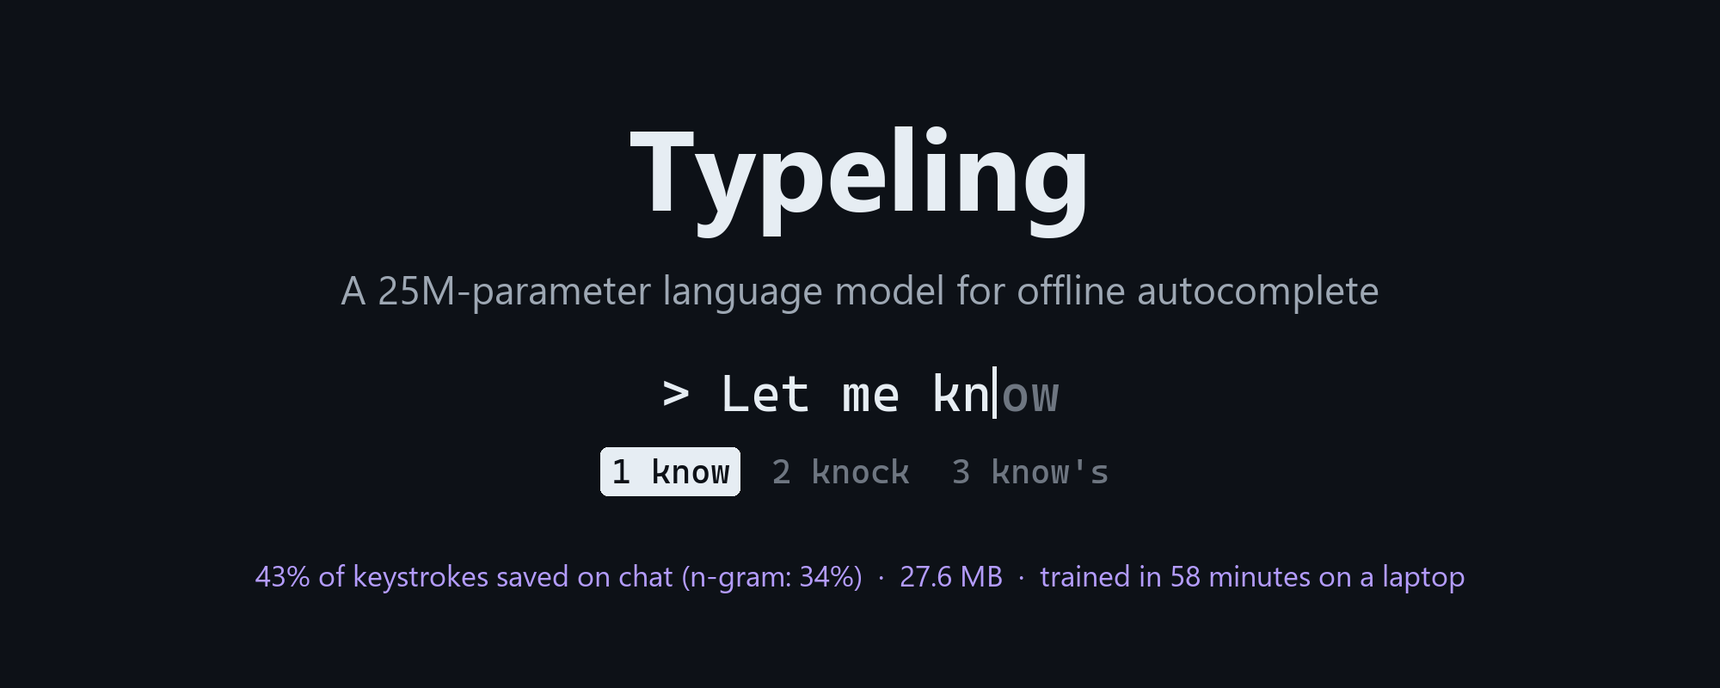
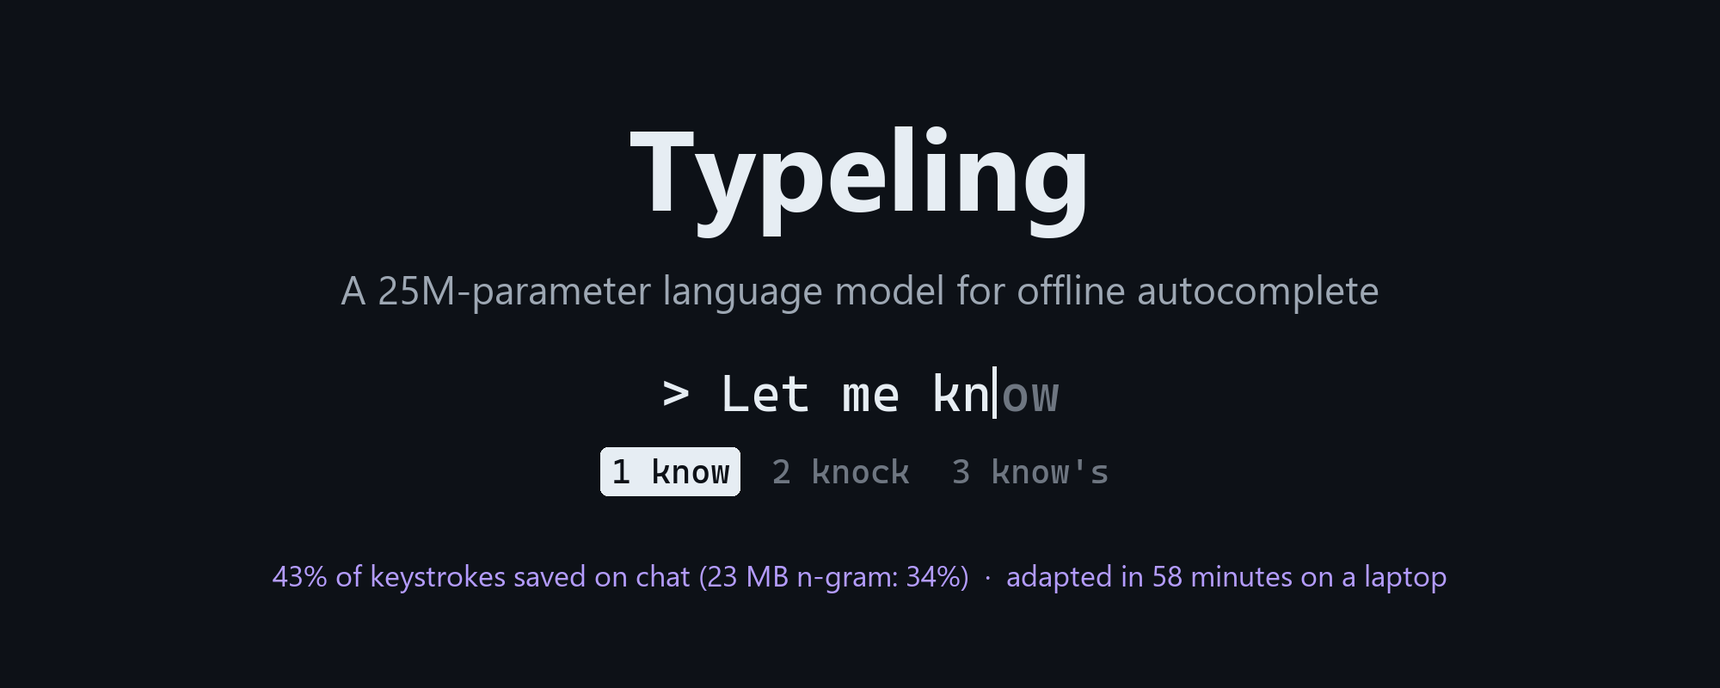
Correct the blog post and its figures
Post: fix the license statement, the n-gram fusion and tokenization
examples, the WildChat gap (23%), the cold start and the sample code;
label the sample sizes and the ghost-text numbers from the old scoring;
credit the base model; separate the 43.1% result from the GGUF file;
soften headings the evidence does not support; add per-source chat
results and the missing limitations.

Figures: compare the base model with itself in trailing-space.png, add
writing to gain.png, use tokenizations that really occur in decoder.png,
drop the 27.6 MB claim from the cover and show the demo's real command.

Changed region(s): [[0.155, 0.8125, 0.837, 0.875]]

diff --git a/docs/blog/make_images.py b/docs/blog/make_images.py
@@ -26,10 +26,11 @@ KSR3 = {"n-gram, 5 MB": [48.8, 38.9, 40.6], "n-gram, 23 MB": [50.6, 40.4, 41.5],
 COLORS = [NGRAM_SMALL, NGRAM, ACCENT]
 # Dev split, 2,000 words per source, early decoder (sections 12 and 13)
 STAGES = ["n-gram\n(23 MB)", "Base model,\nzero-shot", "+20M tokens\n(5.6 min)", "+150M tokens\n(58 min)"]
-GAIN = {"Chat": [31.9, 33.5, 40.3, 41.2], "Casual (IRC)": [24.8, 22.8, 27.7, 29.6]}
-# "Let me know " (section 12: Supra2-Medium-Base raw next token; technical report appendix B: Typeling-25M decoder)
+GAIN = {"Chat": [31.9, 33.5, 40.3, 41.2], "Casual (IRC)": [24.8, 22.8, 27.7, 29.6],
+        "Writing (FineWeb)": [25.5, 38.6, 37.5, 37.2]}
+# "Let me know " (section 12: Supra2-Medium-Base, raw next token and through the decoder)
 RAW = [('"!"', 0.37), ("invalid byte", 0.19), ('"!!"', 0.08)]
-DECODED = [("if", 0.73), ("how", 0.12), ("what", 0.06)]
+DECODED = [("if", 0.48), ("what", 0.11), ("how", 0.07)]
 
 
 def setup_matplotlib():
@@ -75,15 +76,16 @@ def results():
 
 
 def gain():
-    fig, ax = plt.subplots(figsize=(9, 4.6))
-    bars(ax, STAGES, GAIN, [ACCENT, "#B49CFF"])
-    ax.set_ylim(0, 56)
+    fig, ax = plt.subplots(figsize=(10, 5))
+    bars(ax, STAGES, GAIN, [ACCENT, "#B49CFF", NGRAM])
+    ax.set_ylim(0, 62)
     ax.set_ylabel("Keystrokes saved, ghost text (%)")
     ax.set_title("Where the gain over the n-gram model comes from", loc="left")
-    ax.legend(frameon=False, loc="upper left", fontsize=11)
-    ax.annotate("", xy=(3 - 0.2, 47.5), xytext=(1 - 0.2, 47.5),
+    ax.legend(frameon=False, loc="upper left", ncol=3, fontsize=11)
+    chat = -0.8 / 3   # offset of the chat bar in each group
+    ax.annotate("", xy=(3 + chat, 47.5), xytext=(1 + chat, 47.5),
                 arrowprops={"arrowstyle": "->", "color": ACCENT, "lw": 1.6})
-    ax.text(2 - 0.2, 48.6, "+7.7 points on chat from continued pretraining", ha="center", va="bottom",
+    ax.text(2 + chat, 48.6, "+7.7 points on chat from continued pretraining", ha="center", va="bottom",
             color=ACCENT, fontsize=11, fontweight="bold")
     fig.text(0.01, -0.06, "Development split, 2,000 words per source, through the same early decoder "
              "(no typo repair or n-gram fusion).", color=MUTED, fontsize=10.5)
@@ -93,8 +95,8 @@ def gain():
 
 def trailing_space():
     fig, axes = plt.subplots(1, 2, figsize=(12, 3.4), gridspec_kw={"wspace": 0.5})
-    panels = ((RAW, NGRAM, "Raw model, next token after “Let me know ”"),
-              (DECODED, ACCENT, "Typeling decoder, next word"))
+    panels = ((RAW, NGRAM, "Raw next token after “Let me know ”"),
+              (DECODED, ACCENT, "Same model, word decoder: next word"))
     for ax, (items, color, title) in zip(axes, panels):
         labels, values = [k for k, _ in items][::-1], [v for _, v in items][::-1]
         ax.barh(labels, values, color=color, height=0.6)
@@ -105,9 +107,9 @@ def trailing_space():
         ax.spines["bottom"].set_visible(False)
         ax.tick_params(axis="y", length=0, labelsize=13, labelcolor=INK)
         ax.set_title(title, loc="left")
-    fig.text(0.01, -0.08, "Left: Supra2-Medium-Base before any training; byte-level BPE attaches the space to the next "
-             "word, so text ending in a space looks unusual.\nRight: Typeling-25M through the word decoder, which "
-             "cuts the space off and constrains the next token to start with it.", color=MUTED, fontsize=10.5)
+    fig.text(0.01, -0.08, "Both: Supra2-Medium-Base before any training. Left: byte-level BPE attaches the space to the "
+             "next word, so text ending in a space looks unusual.\nRight: the word decoder cuts the space off and "
+             "constrains the next token to start with it.", color=MUTED, fontsize=10.5)
     fig.savefig(IMAGES / "trailing-space.png")
     plt.close(fig)
 
@@ -150,8 +152,8 @@ def cover():
             d.rounded_rectangle([x - 12, 520, x + w + 12, 576], radius=8, fill=DARK_TEXT)
         d.text((x, 548), t, font=bar, fill=DARK_BG if i == 0 else DARK_MUTED, anchor="lm")
         x += w + 48
-    d.text((W / 2, 668), "43% of keystrokes saved on chat (n-gram: 34%)  ·  27.6 MB  ·  trained in 58 minutes on a "
-           "laptop", font=font("sans", 34), fill="#B49CFF", anchor="mm")
+    d.text((W / 2, 668), "43% of keystrokes saved on chat (23 MB n-gram: 34%)  ·  adapted in 58 minutes on a laptop",
+           font=font("sans", 34), fill="#B49CFF", anchor="mm")
     im.save(IMAGES / "cover.png")
 
 
@@ -202,7 +204,8 @@ def decoder():
     y = 300
     d.text((80, y), "1  Prefix phase: only tokens that agree with \" kn\"", font=head, fill=INK, anchor="lm")
     x = 120
-    for t, ok in (('" k"', True), ('" kn"', True), ('" know"', True), ('" ka"', False), ('"!"', False)):
+    for t, ok in (('" k"', True), ('" kn"', True), ('" know"', True), ('" knock"', True), ('" ka"', False),
+                  ('"!"', False)):
         x = chip(d, x, y + 80, t, tok, "#F1EDFF" if ok else "#FFF1F0", ACCENT if ok else "#CF222E",
                  strike=not ok) + 20
     d.text((x + 10, y + 80), "allowed / rejected", font=body, fill=MUTED, anchor="lm")
@@ -210,7 +213,7 @@ def decoder():
     y = 500
     d.text((80, y), "2  Word phase: add letter tokens until the model ends the word", font=head, fill=INK,
            anchor="lm")
-    for row, (pieces, word) in enumerate(((['" know"'], "know"), (['" know"', '"ing"'], "knowing"),
+    for row, (pieces, word) in enumerate(((['" know"'], "know"), (['" knock"', '"ing"'], "knocking"),
                                           (['" know"', "\"'s\""], "know's"))):
         yy = y + 80 + row * 78
         x = 120

diff --git a/docs/blog/make_demo.py b/docs/blog/make_demo.py
@@ -11,8 +11,9 @@
 # torch = { index = "pytorch-cu128" }
 # ///
 """
-Renders the terminal demo (typeling --lm with a bar of 3 candidates) as an animated GIF and stills for the blog post.
-Every frame shows what typeling.demo.LineEditor displays after that key, from the real suggestions of Typeling-25M.
+Renders the terminal demo (typeling --lm --candidates 3) as an animated GIF and stills for the blog post. Every frame
+shows the line and candidates typeling.demo.LineEditor displays after that key, from the real suggestions of
+Typeling-25M; the window, the header and the labels are drawn here.
 
     uv run docs/blog/make_demo.py                                  # data/release/Typeling-25M if present, else the Hub
     uv run docs/blog/make_demo.py --model ScarletKc/Typeling-25M
@@ -63,8 +64,8 @@ def frame(text, ghost, cands, tab=False):
     d.rectangle([0, 0, W, 44], fill=DARK_PANEL)
     for i, c in enumerate(("#FF5F56", "#FFBD2E", "#27C93F")):
         d.ellipse([20 + i * 26, 15, 34 + i * 26, 29], fill=c)
-    d.text((W / 2, 22), "typeling --lm", font=SANS_SMALL, fill=DARK_MUTED, anchor="mm")
-    d.text((PAD, 74), "Typeling-25M  ·  Tab accept  ·  ↑/↓ choose  ·  runs offline", font=SANS_SMALL, fill=DARK_MUTED)
+    d.text((W / 2, 22), "typeling --lm --candidates 3", font=SANS_SMALL, fill=DARK_MUTED, anchor="mm")
+    d.text((PAD, 74), "Typeling-25M  ·  Tab accept  ·  ↑/↓ choose  ·  runs locally", font=SANS_SMALL, fill=DARK_MUTED)
     y = 150
     x = PAD
     d.text((x, y), "> ", font=MONO, fill=DARK_MUTED, anchor="ls")

diff --git a/docs/blog/post.md b/docs/blog/post.md
@@ -1,17 +1,17 @@
-# I Trained a 25M-Parameter Keyboard Model in an Hour on a Laptop
+# I Adapted a 25M-Parameter Language Model to Typing in an Hour on a Laptop
 
 ![Cover](images/cover.png)
 
-Phone keyboards are good at finishing your words and guessing the next one. If you want the same thing offline on a desktop or inside your own tool, there is not much to grab. The models inside Gboard or SwiftKey are closed. Open language models are hundreds of millions of parameters or more, trained to answer questions rather than finish the word under your cursor, and they predict subword tokens instead of words.
+Phone keyboards are good at finishing your words and guessing the next one. If you want the same thing offline on a desktop or inside your own tool, there is not much to grab. The models inside Gboard or SwiftKey are closed. Open language models are a poor fit out of the box: most are hundreds of millions of parameters or more and trained for chat and benchmarks, the small ones are pretrained on web text rather than on how people type, and they predict subword tokens instead of words.
 
 So I built Typeling: an open, offline English typing predictor. It has two parts under the same Python API:
 
 - A pure-Python n-gram kernel with a bundled 5 MB model and zero dependencies.
-- Typeling-25M, a 25.4M-parameter causal language model adapted for typing in 58 minutes on one laptop GPU, plus a word-level decoder that turns its token predictions into completions, next-word predictions and typo fixes.
+- Typeling-25M, a 25.4M-parameter causal language model, plus a word-level decoder that turns its token predictions into completions, next-word predictions and typo fixes. The model starts from SupraLabs' Supra2-Medium-Base (https://huggingface.co/SupraLabs/Supra2-Medium-Base), pretrained on 20B tokens of educational web text, which I adapted to typing with 58 minutes of continued pretraining on one laptop GPU.
 
 ![Terminal demo: Typeling-25M predicting the next word, completing a partial word, and fixing a typo from the candidate bar](images/demo.gif)
 
-On held-out chat text, Typeling-25M saves 43.1% of keystrokes with inline ghost text, and 58.0% with a three-candidate bar, against 34.1% and 50.6% for an unpruned 23 MB trigram model trained on the same corpus. The 8-bit GGUF file is 27.6 MB. Everything is under the Apache 2.0 license:
+On held-out chat text, Typeling-25M saves 43.1% of keystrokes with inline ghost text, and 58.0% with a three-candidate bar, against 34.1% and 50.6% for an unpruned 23 MB trigram model built from the same 47M-word corpus (the language model also has the base model's 20B tokens behind it). Those numbers are for the 16-bit weights through the PyTorch decoder, which needs about 549 MB of memory. There is also a 27.6 MB 8-bit GGUF file for llama.cpp, but the word-level decoder does not run on it yet. The code and Typeling-25M are under the Apache 2.0 license, and the bundled 5 MB n-gram model is under ODC-By 1.0:
 
 - GitHub: https://github.com/scarletkc/typeling
 - Model (16-bit safetensors): https://huggingface.co/ScarletKc/Typeling-25M
@@ -25,7 +25,7 @@ On held-out chat text, Typeling-25M saves 43.1% of keystrokes with inline ghost 
 
 An autocomplete system has two common interfaces. Ghost text shows the single best completion inline in grey, and you press Tab to accept it. A candidate bar sits below the line and always shows the top three words, and you pick one with a key.
 
-To compare models without a user study, the benchmark simulates typing held-out text one letter at a time. For every word, the simulated typist types 0, 1, 2, ... letters and checks the suggestions after each key. With ghost text, the top suggestion is shown when its probability is at least 0.3 and it extends the letters already typed; as soon as it matches the intended word, the typist accepts it with one keystroke. With the candidate bar, the typist picks the intended word as soon as it appears among the top three.
+To compare models without a user study, the benchmark simulates typing held-out text one letter at a time. For every word, the simulated typist types 0, 1, 2, ... letters and checks the suggestions after each key. With ghost text, the top suggestion is shown when its probability is at least 0.3 and it extends the letters already typed; as soon as it matches the intended word, the typist accepts it with one keystroke. With the candidate bar, the typist picks the intended word with one keystroke as soon as it appears among the top three. That fits a tap or a number key; in the terminal demo, the second and third candidates currently take an arrow key plus Tab, so there the bar saves somewhat less than the benchmark says.
 
 ![How keystroke savings are counted](images/ksr.png)
 
@@ -39,19 +39,19 @@ The benchmark covers five corpora, grouped into three domains: chat (SODA, WildC
 
 ---
 
-## Where an n-gram model hits a wall
+## How far a bigger n-gram model gets
 
 Typeling started as a pure-Python trigram model: interpolated modified Kneser-Ney smoothing over a 60,000-word vocabulary, pruned to a 5 MB binary file with one-byte quantized probabilities, plus a recency cache of recent words in the document and a local user model. It loads in about 30 ms and answers a keystroke in 41 to 115 microseconds.
 
-The problem is that a trigram only ever sees the previous two words. To check how much the 5 MB file was holding it back, I built an unpruned model on the same 47M-word corpus. The file grew from 5 MB to 23.4 MB (1.66M bigrams, 3.41M trigrams), and keystroke savings on the development split went up by about two points: 32.1% to 34.3% on chat, 22.8% to 24.6% on IRC, 23.1% to 25.0% on FineWeb. Next-word accuracy barely moved at all (28.6% to 29.2% on SODA, 21.3% to 22.6% on WildChat).
+The problem is that a trigram only ever sees the previous two words. To check how much the 5 MB file was holding it back, I built an unpruned model on the same 47M-word corpus. The file grew from 5 MB to 23.4 MB (1.66M bigrams, 3.41M trigrams), and keystroke savings on the development split (20,000 words per source) went up by about two points: 32.1% to 34.3% on chat, 22.8% to 24.6% on IRC, 23.1% to 25.0% on FineWeb. Next-word accuracy barely moved (28.6% to 29.2% on SODA, 21.3% to 22.6% on WildChat).
 
-More n-gram size mostly stores rarer word triples. It does not teach the model what the sentence is about five words back.
+More n-gram size mostly stores rarer word triples. It does not teach the model what the sentence is about five words back. I did not try higher orders, a larger vocabulary or lower count cutoffs, so this is the limit of this trigram model, not of n-grams in general.
 
 ---
 
 ## Picking a tiny base model
 
-I wanted a recent causal language model under about 50M parameters, under the Apache License, in an architecture that llama.cpp already runs. Before training anything, I ran the candidates zero-shot through an early version of the word decoder on the development split (2,000 words per source, ghost-text KSR %):
+I wanted a recent causal language model under about 50M parameters, under the Apache License, in an architecture that llama.cpp already runs. Before training anything, I ran the candidates zero-shot through an early version of the word decoder on the development split (ghost-text KSR %, 2,000 words per source, a smaller sample than above, which is why the n-gram numbers differ):
 
 | Model | Params | Chat | Casual (IRC) | Writing (FineWeb) |
 |---|---|---|---|---|
@@ -99,13 +99,17 @@ Supra2-Medium-Base was pretrained on documents concatenated without separators. 
 
 Byte-level BPE tokenizers attach the leading space to the word that follows it (`" know"`). Because of that, a training sequence almost never ends in a bare space token, and if you hand the raw model a prompt ending in a space, such as `"Let me know "`, its top next-token predictions are punctuation like `"!"`.
 
-In 1% of training words, I split `" word"` into `" "` followed by `"word"`. At 3% the raw model predicted clean next words after a space, but development loss rose by about 0.03 and KSR on SODA and WildChat dropped by 0.7 points. At 1% the loss penalty dropped to 0.01 while keeping the behavior. Our own decoder does not need this trick (see the next section), but it makes the raw weights behave when someone runs the GGUF directly in llama.cpp.
+In 1% of training words, I split `" word"` into `" "` followed by `"word"`. At 3% the raw model predicted clean next words after a space, but development loss rose by about 0.03 and KSR on SODA and WildChat dropped by 0.7 points. At 1% the loss penalty dropped to 0.01 while keeping the behavior. The decoder does not need this trick (see the next section), but it makes the raw weights behave when someone runs the GGUF directly in llama.cpp.
+
+### Where the gain comes from
 
 ![Where the gain over the n-gram model comes from](images/gain.png)
 
 Looking at the development split through the same decoder, the zero-shot base model was only 1.6 KSR points ahead of the unpruned n-gram on chat, and 2.0 points behind it on IRC. A 20M-token pilot run (5.6 minutes) jumped chat KSR from 33.5% to 40.3% and IRC from 22.8% to 27.7%. The full 150M-token run reached 41.2% on chat and 29.6% on IRC.
 
-So out of the 9.3-point lead over the n-gram on development chat, 7.7 points come from this hour of continued pretraining, not from the base model or the decoder alone.
+So out of the 9.3-point lead over the n-gram on development chat, 7.7 points appeared during this hour of continued pretraining, and the separate 20M-token pilot had already reached 6.8 of them in 5.6 minutes. The decoder is the same in every column, so this says nothing about the decoder's own contribution: I did not run a simpler token-to-word decoding as a baseline.
+
+Writing went the other way. Continued pretraining lowered FineWeb from 38.6% to 37.2% as the model moved toward chat, so the lead there over the n-gram (25.5%) comes from the base model, possibly helped by overlap with its training data (see Limitations).
 
 ---
 
@@ -113,9 +117,9 @@ So out of the 9.3-point lead over the n-gram on development chat, 7.7 points com
 
 Even after training, a subword language model predicts tokens, while a typist wants full words.
 
-If the user has typed `"Let me know "`, the trailing space belongs to the next word's token. If the user has typed `"Let me kn"`, the cursor sits in the middle of a token: `" kn"` is one token, `" know"` is another, `" knowing"` is `" know"` plus `"ing"`. Conditioning naively on the token ids of `"Let me kn"` forces the model into completions where `" kn"` was a standalone token, which is a known tokenization bias.
+If the user has typed `"Let me know "`, the trailing space belongs to the next word's token. If the user has typed `"Let me kn"`, the cursor sits in the middle of a token: `" kn"` is one token, `" know"` is another, `" knocking"` is `" knock"` plus `"ing"`. Conditioning naively on the token ids of `"Let me kn"` forces the model into completions where `" kn"` was a standalone token, which is a known tokenization bias.
 
-![Raw model vs the Typeling word decoder after "Let me know "](images/trailing-space.png)
+![The base model after "Let me know ": raw next token vs through the word decoder](images/trailing-space.png)
 
 The decoder in `typeling/lm.py` fixes both with one mechanism. It splits the text before the cursor into the context (`"Let me"`), the whitespace after it (`" "`) and the partially typed word (`"kn"`). The context is cut before the whitespace, so its key/value cache stays valid across every keystroke of the word being typed. The whitespace plus the typed letters (`" kn"`) become a character-level constraint on what the model is allowed to generate next.
 
@@ -124,25 +128,25 @@ The decoder in `typeling/lm.py` fixes both with one mechanism. It splits the tex
 A beam search of width 8 then explores token sequences in two phases:
 
 1. **Prefix phase.** While the generated string is shorter than the constraint `" kn"`, only tokens that agree with the remaining characters are allowed: tokens that are prefixes of what is left (`" k"`, `" kn"`) or tokens that start with it (`" know"`, `" knock"`). A sorted index over the decoded vocabulary finds the matching token range with a binary search.
-2. **Word phase.** Once a hypothesis has covered `" kn"`, it can grow with letter and contraction tokens (`" know"` + `"ing"`, `" don"` + `"'t"`) for up to 6 tokens. At every step in the word phase, the probability that the word ends right here is $e(y) = 1 - \sum_{t \in C} P(t \mid c, y)$, where $C$ is the set of tokens that would continue the word.
+2. **Word phase.** Once a hypothesis has covered `" kn"`, it can grow with letter and contraction tokens (`" knock"` + `"ing"`, `" don"` + `"'t"`) for up to 6 tokens. At every step in the word phase, the probability that the word ends right here, e(y), is one minus the total probability of the tokens that would continue the word.
 
-Summing over all token paths $y$ that spell the same word (and merging casing variants under the most likely form) gives the word probability:
+Summing over all token paths y that spell the same word (and merging casing variants under the most likely form) gives the word probability:
 
 $$P(w \mid c, \tau) = \frac{1}{Z} \sum_{y:\, \mathrm{str}(y) = \ell w} P(y \mid c)\, e(y)$$
 
-where $Z$ accumulates the probability mass of all tokens that complete the constraint $\tau = \ell p$ during the prefix phase.
+where c is the context, τ = ℓp is the constraint (the whitespace ℓ plus the typed letters p), and Z accumulates the probability mass of all tokens that complete the constraint during the prefix phase.
 
 The search stops early as soon as the highest-probability unfinished hypothesis in the beam can no longer overtake the third-best finished word. That is an approximation, not an exact top-3 guarantee: paths pruned from the beam at earlier steps are never revisited, and post-processing happens after the search.
 
 Three smaller pieces sit on top of the beam search:
 
-- **N-gram fusion.** Subword pieces can glue two words into a non-word when the space between them is omitted, such as `" much"` + `"for"` = `muchfor` or `" don't"` + `"know"` = `don'tknow`. Mixing in the bundled 5 MB n-gram model with weight 0.1 boosts real words from the 60k vocabulary and pushes non-words down the list.
+- **N-gram fusion.** Subword pieces can glue two words into a non-word when the space between them is omitted, such as `" much"` + `"for"` = `muchfor` or `" don"` + `"'t"` + `"know"` = `don'tknow`. Mixing in the bundled 5 MB n-gram model with weight 0.1 boosts real words from the 60k vocabulary and pushes non-words down the list: for `"Thank you so mich"`, the top 5 is `much, michael, muchfor, muchout, muchika` without fusion and `much, michael, michigan, michelle, michelin` with it. It does not remove them everywhere: right after a finished word, `"Thank you so much"` gives `much, muchfor, muchout` with or without fusion.
 - **Spelling and safety filters.** Real chat logs contain frequent misspellings like `recieve` and `definately`, and the language model learns them. The n-gram kernel already carries a list of common misspellings and an offensive-word blocklist; the decoder removes both before normalizing probabilities.
-- **Local user model.** Both predictors share `~/.typeling/user.json`, which counts the words and word pairs you actually type. Its probabilities are mixed into the language model's joint distribution before normalizing over the constraint, with a weight that grows up to 0.3 as you use it. A name or project term that the language model assigns near-zero probability takes first place after you type it about three times, while common English phrases stay with the language model.
+- **Local user model.** Both predictors can keep a local file that counts the words and word pairs you actually type (the terminal demo uses `~/.typeling/user.json`; in the library, pass `user=path` and call `save()`). Its probabilities are mixed into the language model's joint distribution before normalizing over the constraint, with a weight that grows up to 0.3 as you use it. A name or project term that the language model assigns near-zero probability takes first place after you type it about three times, while common English phrases stay with the language model.
 
 ---
 
-## Typos: fix them in the decoder, not the model
+## Typos: decoder repair worked, my one fine-tuning recipe did not
 
 What if the user types `"See you tomm"` or `"What do you thnik"`?
 
@@ -160,19 +164,19 @@ For any partial word of two or more letters, `typeling/keyboard.py` generates al
 - swapping two neighboring letters (`thnik` -> `think`),
 - leaving the first letter lowercase.
 
-We keep the candidate prefixes that actually start at least one word in the 60k n-gram lexicon, rank them by the unigram probability mass of the words they start, and take the top 4. Those 4 corrected prefixes are dropped into the exact same beam search as extra constraints, each multiplied by an error weight $\omega = 0.003$ (the prior probability of a typo relative to typing cleanly). If the letters as typed do not start any known vocabulary word (for example `recie`), their own weight is lowered from 1.0 to 0.1 so the model does not stubbornly prefer a learned misspelling.
+The decoder keeps the candidate prefixes that actually start at least one word in the 60k n-gram lexicon, ranks them by the unigram probability mass of the words they start, and takes the top 4. Those 4 corrected prefixes are dropped into the exact same beam search as extra constraints, each multiplied by an error weight of 0.003 (the prior probability of a typo relative to typing cleanly). If the letters as typed do not start any known vocabulary word (for example `recie`), their own weight is lowered from 1.0 to 0.1 so the model does not stubbornly prefer a learned misspelling.
 
-Because all constraints share one beam and merge as soon as their token paths coincide, typo repair barely increases the number of model calls. Corrections appear in `topk()` and the candidate bar; `suggest()` only returns ghost text when the top word extends the characters already on screen, because inline ghost text cannot reach back and rewrite `"tomm"` into `"tomorrow"`.
+Because all constraints share one beam and merge as soon as their token paths coincide, typo repair needs no separate search. Corrections appear in `topk()` and the candidate bar; `suggest()` only returns ghost text when the top word extends the characters already on screen, because inline ghost text cannot reach back and rewrite `"tomm"` into `"tomorrow"`.
 
 ### Attempt 2: fine-tuning the model on synthetic typos
 
 I also built 600,000 synthetic typo examples of the form `context <|typed|> noisy_letters <|word|> intended_word </s>` and fine-tuned the checkpoint for another 40M tokens (half typo examples, half the normal corpus mix), then decoded it in a matching typed mode.
 
-In isolation, the fine-tuned model learned the task well: after typing a whole mistyped word on SODA, it put the intended word first 84% of the time. In the full typing simulation, though, it was worse everywhere. Its clean language-modeling loss rose by 0.07 to 0.12 nats, and its KSR dropped by 6 to 10 points on clean text and 6 to 11 points on mistyped text compared with the plain checkpoint plus decoder repair. (I only evaluated the fine-tuned weights in their typed decoding mode, so that gap mixes the weight change with the decoding change, and this was a single recipe run once.) I threw the fine-tuned weights away and shipped the continued-pretraining checkpoint unchanged.
+In isolation, the fine-tuned model learned the task well: after typing a whole mistyped word on SODA, it put the intended word first 84% of the time. In the full typing simulation, though, it was worse everywhere. Its clean language-modeling loss rose by 0.07 to 0.12 nats, and its KSR dropped by 6 to 10 points on clean text and 6 to 11 points on mistyped text compared with the plain checkpoint plus decoder repair. (I only evaluated the fine-tuned weights in their typed decoding mode, so that gap mixes the weight change with the decoding change, and this was a single recipe run once. The mistyped figure also comes from the older, more generous ghost-text scoring described under "Things I got wrong", on both sides of the comparison.) I threw the fine-tuned weights away and shipped the continued-pretraining checkpoint unchanged, but this does not show that typo fine-tuning cannot work.
 
 ### What the typo benchmark shows (and what it does not)
 
-To stress-test typo handling, `lm/eval.py --typos` runs the simulation with a typist who mistypes every word of 3 or more letters (one error, or two errors 20% of the time; 76% to 82% of all words in a text). On the held-out test splits, using the three-candidate bar (KSR@3 clean -> KSR@3 with every word mistyped, and in parentheses the share of mistyped words where the intended word was picked from the bar):
+To stress-test typo handling, `lm/eval.py --typos` runs the simulation with a typist who mistypes every word of 3 or more letters (one error, or two errors 20% of the time; 76% to 82% of all words in a text). On the held-out test splits (first 1,000 words per source, for FineWeb a single article, so the clean numbers differ a little from the 2,000-word results below), using the three-candidate bar (KSR@3 clean -> KSR@3 with every word mistyped, and in parentheses the share of mistyped words where the intended word was picked from the bar):
 
 | Domain | n-gram, 5 MB | Typeling-25M |
 |---|---|---|
@@ -185,7 +189,7 @@ A few caveats belong right next to these numbers:
 1. This table compares two complete systems (the 5 MB n-gram kernel does not have typo repair), and I did not run the candidate bar with repair turned off, so the 94.5% figure does not isolate how much comes from repair versus how much the language model already gets right before the typo happens.
 2. The percentage in parentheses counts a mistyped word as recovered whenever the intended word was picked at any step, including after 0, 1 or 2 letters before the error was even typed.
 3. The synthetic errors are drawn from the same QWERTY error model that the decoder inverts, and earlier words in the context are kept clean.
-4. At a realistic typo rate of say 10% of words, interpolating between clean and mistyped KSR changes keystroke savings by +0.21 points on chat, -0.15 on IRC and +0.25 on writing. Typo repair is there so mistyped words can still be offered in the bar, not because it saves many keystrokes on average.
+4. Typo repair is there so mistyped words can still be offered in the bar, not because it saves many keystrokes on average. I only measured its effect on ghost text under the older scoring described under "Things I got wrong": at a 10% typo rate on the development split, about a quarter of a point either way, and the current scoring can only lower that.
 
 ---
 
@@ -193,7 +197,7 @@ A few caveats belong right next to these numbers:
 
 ![Test-split keystroke savings](images/results.png)
 
-On the held-out test splits (first 2,000 words per source), running the released 16-bit weights with all decoder defaults:
+On the held-out test splits (first 2,000 words per source; for FineWeb, three articles), running the released 16-bit weights with all decoder defaults:
 
 | System | Chat KSR / KSR@3 | Casual KSR / KSR@3 | Writing KSR / KSR@3 | Chat precision |
 |---|---|---|---|---|
@@ -202,6 +206,8 @@ On the held-out test splits (first 2,000 words per source), running the released
 | Typeling-25M | 43.1% / 58.0% | 29.8% / 46.8% | 32.4% / 49.9% | 54.7% |
 
 Typeling-25M beats the unpruned 23 MB n-gram by 9.0 KSR points on chat, 5.3 on IRC and 8.5 on FineWeb, while also raising the precision of shown ghost text from 51.2% to 54.7%. Having a three-candidate bar adds 15 to 18 points over single ghost text for every system.
+
+Chat pools three sources, and they are not equally telling. SODA is synthetic and formulaic, and it gains the most. Ghost-text KSR per source, 23 MB n-gram -> Typeling-25M: SODA 37.7% -> 48.1%, WildChat 34.8% -> 42.2%, oasst2 30.1% -> 39.6%. WildChat's test sample also happens to be easier than its development sample for both models (the 23 MB n-gram goes from 28.9% to 34.8%), which is part of why test chat (43.1%) comes out above development chat (41.2%).
 
 For predicting the next word before any letter is typed (acc@0 / top3@0 on the test splits):
 
@@ -217,10 +223,10 @@ Exporting to 16-bit safetensors (50.8 MB) gives the exact same perplexity as flo
 
 ### Latency and footprint: the real remaining cost
 
-The model file is small, but the Python decoder runs on PyTorch. On a laptop CPU (AMD Ryzen 9 9955HX, 4 threads, float32), a suggestion takes:
+The model file is small, but the Python decoder runs on PyTorch. On a high-end laptop CPU (AMD Ryzen 9 9955HX, 4 threads, float32), over 300 words per source, a suggestion takes:
 
 - Chat and IRC: 23 to 25 ms mean, 39 to 48 ms p95, 51 to 60 ms p99.
-- FineWeb (long articles): 32.8 ms mean, 63.0 ms p95, 82.2 ms p99.
+- FineWeb (one long article): 32.8 ms mean, 63.0 ms p95, 82.2 ms p99.
 
 100 ms is roughly the gap between keystrokes for a fast typist. Short messages stay comfortably under that; long contexts are slower because PyTorch's `reorder_cache` copies the entire context key/value cache for every beam hypothesis at every step. Cutting the maximum context window from 2,000 characters to 1,000 characters cost 0.1 KSR points on FineWeb and brought p99 down from 110 ms to 82 ms.
 
@@ -231,22 +237,22 @@ The bigger gap is memory and startup time:
 | Dependencies | none (standard library) | PyTorch, Transformers |
 | Model on disk | 5 MB | 50.8 MB (fp16) / 27.6 MB (Q8_0 GGUF) |
 | Process memory (RSS) | 54 MB | 549 MB |
-| Cold start | 0.03 s | 4.6 s to import PyTorch + 2.5 s to load from local cache |
+| Cold start | 0.03 s | 4.6 s to import PyTorch + 2.5 s to load the cached model with `HF_HUB_OFFLINE=1` (9.3 to 12.6 s by default, with Hugging Face's online revision check) |
 | Time per suggestion | 41 to 115 µs | 23 to 33 ms mean on 4 CPU threads |
 
 549 MB is fine for a Python library or a CLI tool. It is too heavy for a background input method that stays resident next to every app on your machine. On the same 4 CPU threads, llama.cpp runs the 27.6 MB Q8_0 GGUF at 11,900 tokens/s for prompts and 2,800 single-token steps/s, and its sequences can share a prefix KV cache without copying it. Porting the word-level decoder to llama.cpp is the obvious next engineering step, and the small GGUF file size will only translate into a small running footprint once that port exists.
 
 ---
 
-## Things I got wrong along the way
+## Things I got wrong, and things that surprised me
 
-A few mistakes came up while building this and while having the technical report reviewed. They were more educational than the parts that worked on the first try.
+A few mistakes and surprises came up while building this and while having the technical report reviewed. They were more educational than the parts that worked on the first try.
 
-1. **My benchmark initially gave ghost text credit for impossible corrections.** In `bench/eval.py`, `score()` originally checked whether the top candidate from `topk()` was the target word and beat the threshold. With typo repair turned on, `topk("See you tomm", 3)` returns `tomorrow` at 0.90 on top. `score()` counted that as an accepted ghost-text suggestion! But `suggest("See you tomm")` returns `""`, because inline ghost text can only append letters after the cursor; it cannot rewrite the second `m`. That bug inflated all my ghost-text typo numbers (85.6% "corrected" on chat). In 0.1.1 I fixed `bench/eval.py` so ghost text only scores candidates that extend the typed prefix, matching `suggest()`.
+1. **My benchmark initially gave ghost text credit for impossible corrections.** In `bench/eval.py`, `score()` originally checked whether the top candidate from `topk()` was the target word and beat the threshold. With typo repair turned on, `topk("See you tomm", 3)` returns `tomorrow` at 0.90 on top. `score()` counted that as an accepted ghost-text suggestion! But `suggest("See you tomm")` returns `""`, because inline ghost text can only append letters after the cursor; it cannot rewrite the second `m`. That bug inflated my ghost-text typo numbers with repair on (85.6% "corrected" on chat). In 0.1.1 I fixed `bench/eval.py` so ghost text only scores candidates that extend the typed prefix, matching `suggest()`. I did not rerun the typo runs afterwards, which is why this post reports typo results for the candidate bar, whose numbers the bug did not touch. Clean-text KSR is not affected either.
 2. **"Exact top 3" was not exact.** I wrote in the docstring and the first paper draft that stopping the beam search once no unfinished path can beat the 3rd-best word guarantees an exact top-3 list. It does not: any token path that fell out of the width-8 beam three steps ago is gone forever, and hidden-word filtering, the user model and n-gram fusion all run after the search finishes. Changing the beam from 6 to 8 changes the results by 0.1 to 0.6 points, which immediately disproves exactness.
-3. **An impossible example in my own notes.** Early on I noted that for `"I looked it up in the encyc"`, `encyclopedia` had probability 0.93 with n-gram fusion and was absent without it. A reviewer pointed out the arithmetic: fusion weight is $\lambda = 0.1$, so $P = 0.9 \cdot P_{\mathrm{LM}} + 0.1 \cdot P_{\mathrm{ngram}}$. Fusion can add at most 0.10 to any word! When I actually checked the released model with `ngram_weight=0`, `encyclopedia` was already sitting at 0.929. The real reason to keep n-gram fusion is suppressing subword non-words like `muchfor`, which you can even spot briefly in the candidate bar of the demo GIF right after `"Thank you so much"` is accepted.
-4. **An unexplained data split anomaly.** We split FineWeb, WildChat and IRC into 98% train / 1% dev / 1% test by MD5 hash of the text. IRC (4,277 dev vs 4,142 test) and FineWeb (401 vs 434) came out balanced. WildChat came out with 2,927 turns in dev and 3,805 in test, a 24% gap (~10 standard deviations). Every turn in both files hashes to the split it is in, there are no duplicates, the deficit is spread evenly across all ten dev hash buckets, and both splits have the exact same share of 13+ word turns (51.0% vs 51.5%) and 13-gram overlap with train (12.8% both). The corpus files were written between two early commits of `training/build.py`, and the current code cannot produce that gap. It looks like a uniform random subsample, so I kept the split and documented the anomaly in the report.
-5. **The writing test sample is tiny in documents.** `--limit 2000` takes the first 2,000 target words of each split. For chat, 2,000 words span hundreds of short turns. For FineWeb, 2,000 words are just three web articles (and 1,000 words for the typo test is a single article). System comparisons are paired on the exact same words, so the 8.5-point gap over the n-gram is on identical text, but absolute writing numbers move around across samples.
+3. **An impossible example in my own notes.** Early on I noted that for `"I looked it up in the encyc"`, `encyclopedia` had probability 0.93 with n-gram fusion and was absent without it. A reviewer pointed out the arithmetic: the fusion weight is 0.1, so P = 0.9 · P_LM + 0.1 · P_ngram. Fusion can add at most 0.10 to any word! When I actually checked the released model with `ngram_weight=0`, `encyclopedia` was already sitting at 0.929. The real reason to keep n-gram fusion is pushing subword non-words out of the candidates, as in the `mich` example above, and even that is only partial: `muchfor` still flashes by in the demo GIF right after `"Thank you so much"` is accepted.
+4. **An unexplained data split anomaly.** I split FineWeb, WildChat and IRC into 98% train / 1% dev / 1% test by MD5 hash of the text. IRC (4,277 dev vs 4,142 test) and FineWeb (401 vs 434) came out balanced. WildChat came out with 2,927 turns in dev and 3,805 in test, 23% fewer in dev (~10 standard deviations). Every turn in both files hashes to the split it is in, there are no duplicates, the deficit is spread evenly across all ten dev hash buckets, and both splits have about the same share of 13+ word turns (51.0% vs 51.5%) and 13-gram overlap with train (12.8% both). The corpus files were written between two early commits of `training/build.py`, and the current code cannot produce that gap. It looks like a uniform random subsample, so I kept the split and documented the anomaly in the report.
+5. **The writing test sample is tiny in documents.** `--limit 2000` takes the first 2,000 target words of each split. For chat and IRC, 2,000 words span about 90 to 200 short turns per source. For FineWeb, 2,000 words are just three web articles (and 1,000 words for the typo test is a single article). System comparisons are paired on the exact same words, so the 8.5-point gap over the n-gram is on identical text, but absolute writing numbers move around across samples, and I have no confidence intervals (see Limitations).
 6. **Hugging Face model lineage is case-sensitive.** When I uploaded the GGUF repo with `base_model: scarletkc/Typeling-25M` in lowercase, Hugging Face silently failed to link it into the model tree on the main repo's page because my account is capitalized as `ScarletKc`. Fixing the casing linked them immediately.
 7. **llama.cpp's GGUF converter rejected the tokenizer hash.** `convert_hf_to_gguf.py` hashes the BPE pre-tokenizer configuration and refuses unknown hashes, and it also imports `sentencepiece` at the top level even for pure BPE models. Mapping the pre-tokenizer hash to GPT-2's (which uses the same regex) in `lm/export.py` produced a GGUF whose tokenization in llama.cpp matches Transformers token for token, with one quirk worth knowing: Transformers automatically prepends a space to the start of every string (`add_prefix_space`), while llama.cpp does not, so prompts passed to llama.cpp should start with `"</s> "` or a leading space.
 
@@ -257,13 +263,18 @@ A few mistakes came up while building this and while having the technical report
 - **Simulated typing, not a user study.** Both the typing loop and the typo generator are simulations. Real people pause, backspace, and rephrase when they see a suggestion.
 - **No comparison against larger general models.** I did not run 135M to 500M models (such as SmolLM2-135M, SmolLM2-360M or Qwen2.5-0.5B) through the same decoder, and I did not run the Q8_0 GGUF through the word-level typing benchmark (only perplexity and KL divergence), because the decoder currently runs on PyTorch.
 - **Data caveats.** SODA was generated by InstructGPT (whose terms restrict building competing models from its outputs), and FineWeb-Edu (the base model's pretraining data) is filtered from FineWeb, so writing-domain numbers may benefit from overlap.
+- **No confidence intervals.** Every number uses the first 1,000 to 2,000 words of each split, with no bootstrap and no repeated samples. The 5-to-9-point gaps over the n-gram are on identical words and probably real, but their exact size is not known.
+- **Neither the strongest n-gram nor equal data.** The baseline is a trigram model, and the language model has 20B tokens of pretraining that the n-gram model never saw.
+- **Non-words in the bar.** Right after a finished word, the bar can still offer non-words like `muchfor` and `tomorrownight`.
+- **Personalization is not measured.** The benchmark's texts come from many different people, so it cannot show whether the user model helps.
+- **Not tested for memorization.** Emails, URLs and phone numbers were removed from the web and human chat text, but I did not test the model for verbatim reproduction of training text or personal information. The blocklist stops listed offensive words; other harmful completions are possible.
 - **English only.**
 
 ---
 
 ## Try it or reuse it
 
-If you only want the fast, dependency-free n-gram predictor:
+If you only want the fast, dependency-free n-gram predictor (Python 3.13 or newer):
 
 ```bash
 pip install typeling
@@ -286,19 +297,23 @@ Use it from Python (both classes have the exact same `suggest`, `topk`, `learn` 
 
 ```python
 from typeling import Predictor
-from typeling.lm import LMPredictor
 
-p = Predictor()                      # or LMPredictor() for Typeling-25M
+p = Predictor(user="user.json")      # n-gram kernel; user= is optional, for persistent learning
 p.suggest("Let me kn")               # 'ow'
 p.suggest("Thank you so ")           # 'much'
-p.topk("See you tomm", 3)            # with LMPredictor: [('tomorrow', 0.90), ('tommy', 0.07), ...]
+p.learn("We deployed Zorblaxa.")     # adapts locally
+p.save()                             # writes user.json
 
-p.learn("We deployed Zorblaxa.")     # adapts locally; pass user="user.json" to persist
+# With typeling[lm] installed, Typeling-25M has the same methods, plus typo repair in topk():
+from typeling.lm import LMPredictor
+
+p = LMPredictor()
+p.topk("See you tomm", 3)            # [('tomorrow', 0.90), ('tommy', 0.07), ...]
 ```
 
 What is next on the list:
 
-- Skip the online Hugging Face revision check when the model is already in the local cache, which currently adds several seconds to startup (Issue #1: https://github.com/scarletkc/typeling/issues/1).
-- Port the constrained word decoder to llama.cpp on top of the 27.6 MB GGUF file so it can run inside a real desktop or mobile input method under 100 MB of memory (Issue #2: https://github.com/scarletkc/typeling/issues/2).
+- Skip the online Hugging Face revision check when the model is already in the local cache, which currently adds about 7 to 10 seconds to startup. No typed text is sent, and `HF_HUB_OFFLINE=1` skips it today (Issue #1: https://github.com/scarletkc/typeling/issues/1).
+- Port the constrained word decoder to llama.cpp on top of the 27.6 MB GGUF file so it can run inside a real desktop or mobile input method. The goal is under 100 MB of memory; llama.cpp's actual footprint is still to be measured (Issue #2: https://github.com/scarletkc/typeling/issues/2).
 
 The code, training scripts, benchmark and technical report are all in the repo: https://github.com/scarletkc/typeling. If you try it or wire it into an editor or IME, I would love to hear how it goes!
